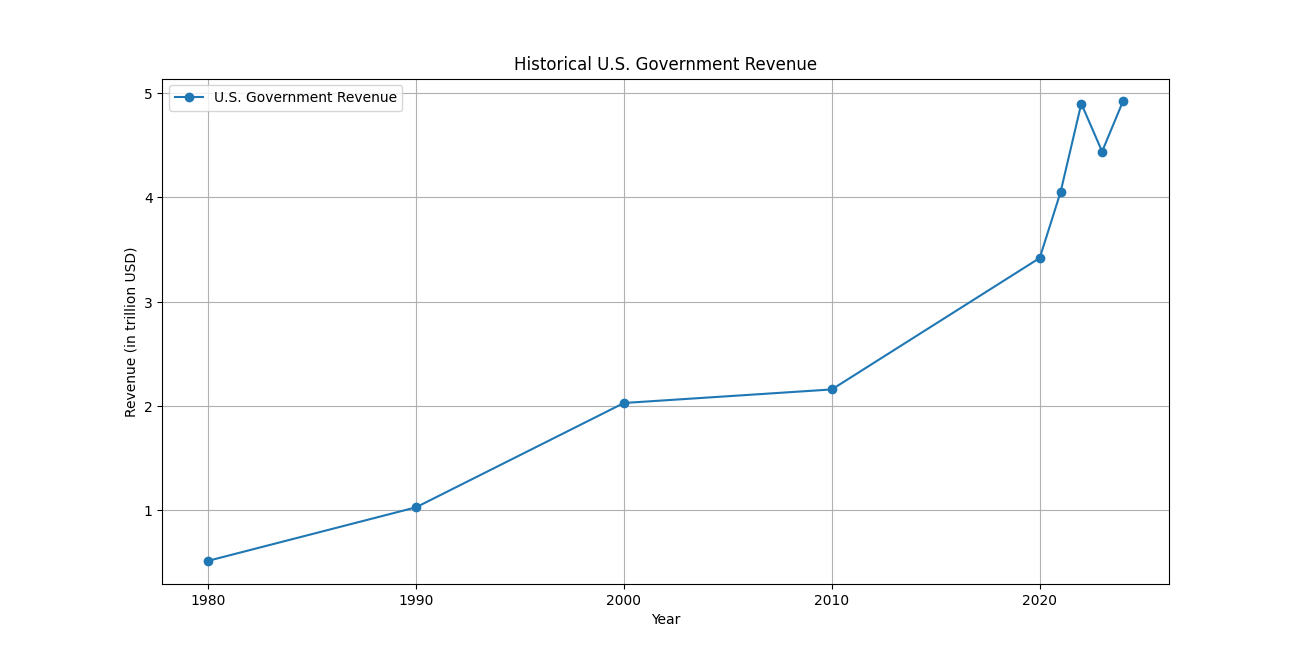
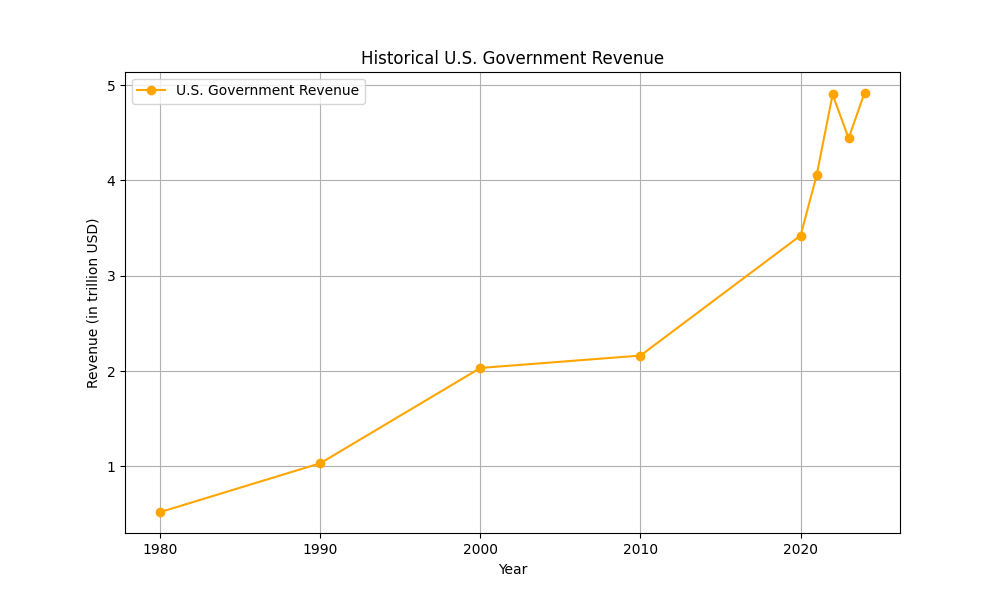
changed the line color to orange.

diff --git a/us-revenue/us-revenue.py b/us-revenue/us-revenue.py
@@ -19,7 +19,7 @@ revenue = list(us_revenue.values())
 
 # Plotting the data
 plt.figure(figsize=(10, 6))
-plt.plot(years, revenue, marker='o', label='U.S. Government Revenue')
+plt.plot(years, revenue, marker='o', color='orange', label='U.S. Government Revenue')
 
 # Adding titles and labels
 plt.title('Historical U.S. Government Revenue')
